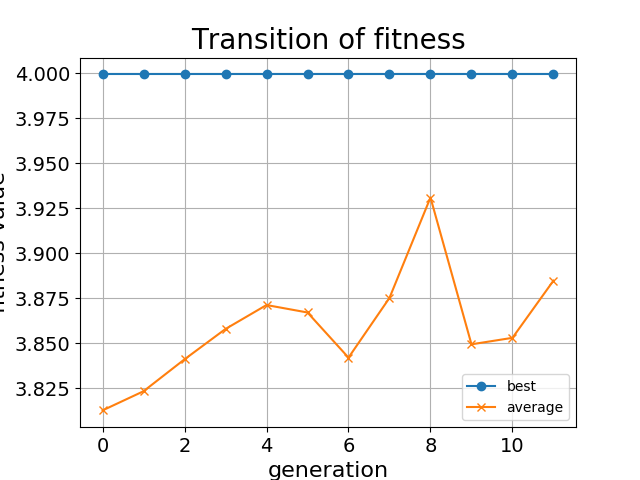
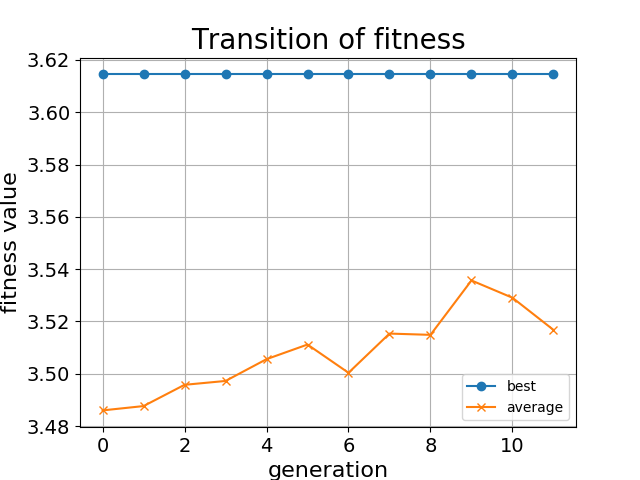
superficial commit

diff --git a/models/freight_rate_return.py b/models/freight_rate_return.py
@@ -77,7 +77,7 @@ class FreightReturn:
                 current_date        = add_month(current_date)
                 current_date_str    = datetime.datetime.strftime(current_date, '%Y/%m/%d')
                 current_freight_rate    = self.calc_freight_rate(current_freight_rate)
-                
+
                 #make a threshold
                 if current_freight_rate > 2500:
                     current_freight_rate = current_freight_rate * self.d /self.u
@@ -90,10 +90,11 @@ class FreightReturn:
 
     def depict(self):
         x = range(self.predict_years*12)
-        y = []
-        for i in range(self.predict_years*12):
-            y.append(self.predicted_data[0][i]['price'])
-        plt.plot(x, y,label='return_price')
+        for pattern in range(DEFAULT_PREDICT_PATTERN_NUMBER):
+            y = []
+            for i in range(self.predict_years*12):
+                y.append(self.predicted_data[pattern][i]['price'])
+            plt.plot(x, y)#,label='pattern {0}'.format(pattern+1))
         plt.title('Transition of freight rate return', fontsize = 20)
         plt.xlabel('month', fontsize = 16)
         plt.ylabel('freight rate return', fontsize = 16)
@@ -101,7 +102,7 @@ class FreightReturn:
         plt.grid(True)
         plt.legend(loc = 'lower right')
         save_dir = '../image'
-        plt.savefig(os.path.join(save_dir, 'freight_rate.png'))
+        plt.savefig(os.path.join(save_dir, 'freight_rate_return.png'))
         plt.close()
         #plt.savefig(os.path.join(save_dir, 'freight_rate_return.png'))
         #plt.show()

diff --git a/models/freight_rate_outward.py b/models/freight_rate_outward.py
@@ -91,16 +91,20 @@ class FreightOutward:
 
     def depict(self):
         x = range(self.predict_years*12)
-        y = []
-        for i in range(self.predict_years*12):
-            y.append(self.predicted_data[0][i]['price'])
-        plt.plot(x, y,label='outward_price')
-        plt.title('Transition of feright rate outward', fontsize = 20)
+        for pattern in range(DEFAULT_PREDICT_PATTERN_NUMBER):
+            y = []
+            for i in range(self.predict_years*12):
+                y.append(self.predicted_data[pattern][i]['price'])
+            plt.plot(x, y)#,label='pattern {0}'.format(pattern+1))
+        plt.title('Transition of freight rate outward', fontsize = 20)
         plt.xlabel('month', fontsize = 16)
-        plt.ylabel('freight rate outward', fontsize = 16)
+        plt.ylabel('freight rate return', fontsize = 16)
         plt.tick_params(labelsize=14)
         plt.grid(True)
         plt.legend(loc = 'lower right')
+        save_dir = '../image'
+        plt.savefig(os.path.join(save_dir, 'freight_rate_outward.png'))
+        plt.close()
         #save_dir = '../image'
         #plt.savefig(os.path.join(save_dir, 'freight_rate_outward.png'))
         #plt.show()

diff --git a/public/constants.py b/public/constants.py
@@ -19,7 +19,7 @@ VESSEL_LIFE_TIME         = 15#year
 OPERATION_DURATION_YEARS = VESSEL_LIFE_TIME
 DEFAULT_PREDICT_YEARS    = OPERATION_DURATION_YEARS
 
-GENETIC_ALGORITHM_PARAMETER = {'pattern':10, 'generation':20, 'individual':200}
+GENETIC_ALGORITHM_PARAMETER = {'pattern':10, 'generation':20, 'individual':400}
 DEFAULT_PREDICT_PATTERN_NUMBER = GENETIC_ALGORITHM_PARAMETER['pattern']
 DEFAULT_GENERATION = GENETIC_ALGORITHM_PARAMETER['generation']
 DEFAULT_NUM_OF_INDIVIDUAL = GENETIC_ALGORITHM_PARAMETER['individual']
